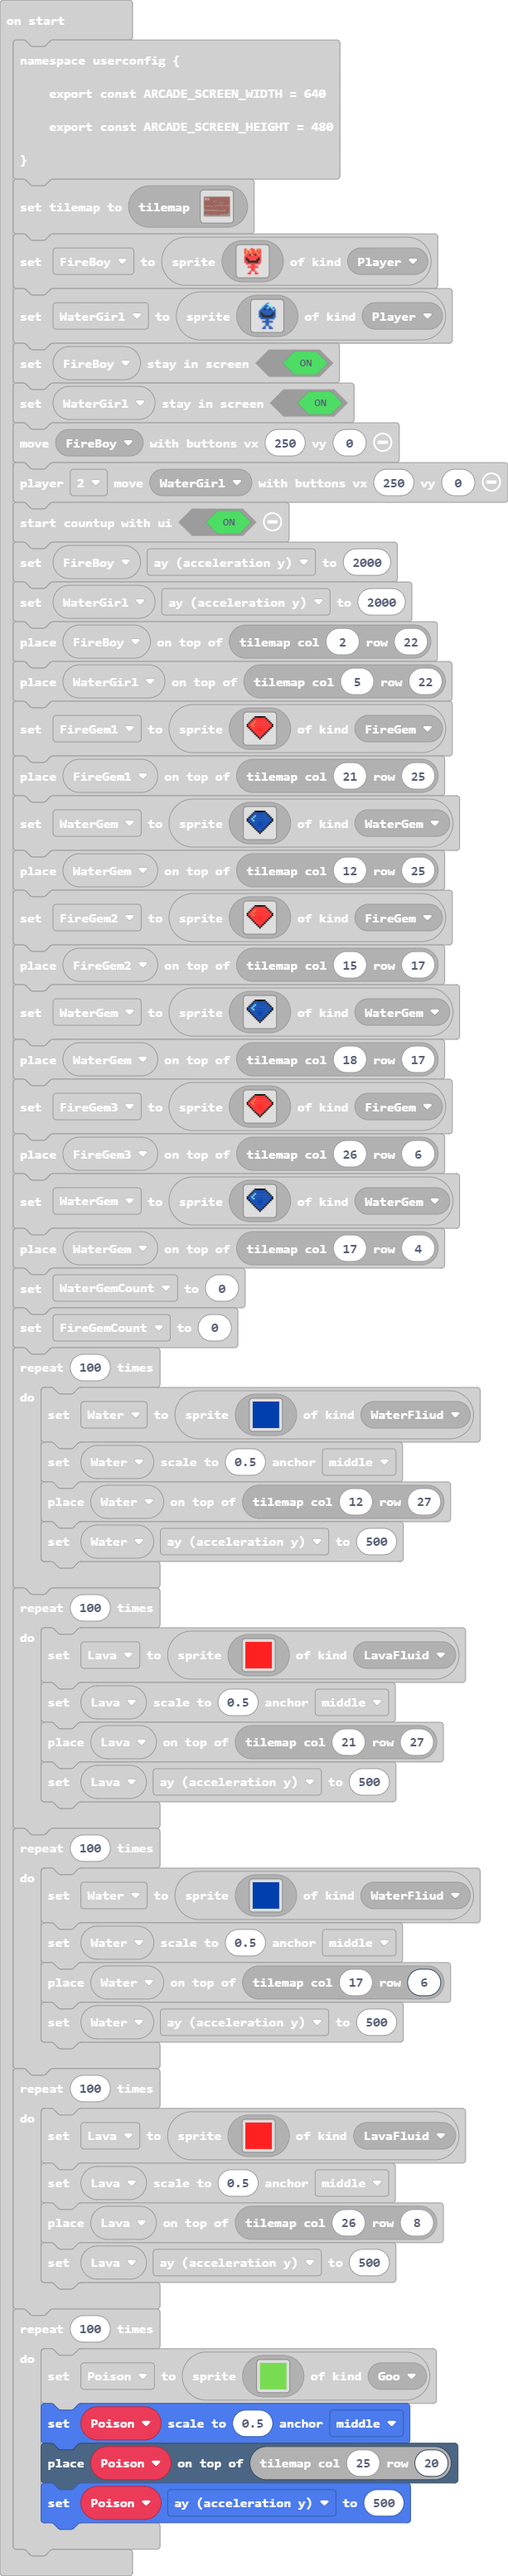
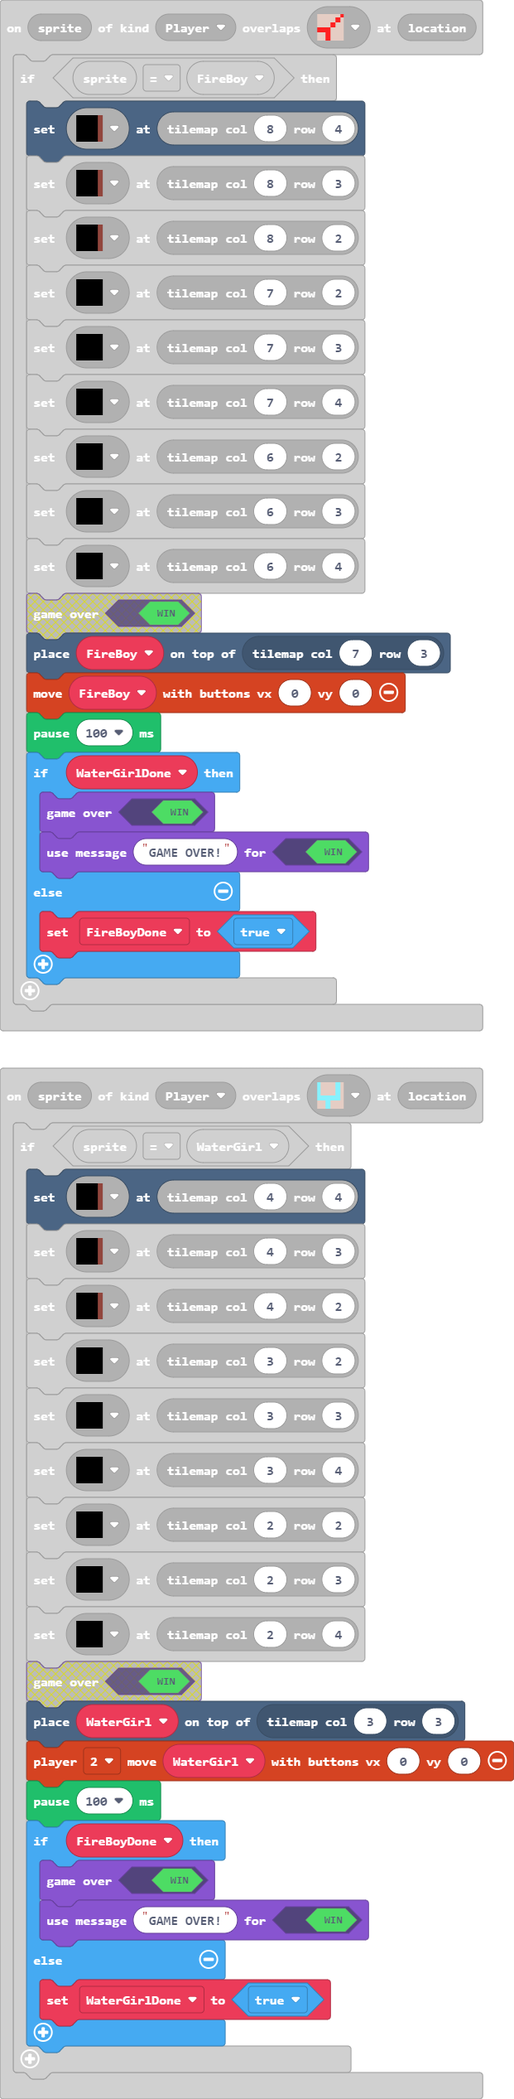
Game Over Door stuff

diff --git a/main.ts b/main.ts
@@ -9,17 +9,21 @@ namespace SpriteKind {
 }
 scene.onOverlapTile(SpriteKind.Player, assets.tile`MiddleMiddleFire`, function (sprite, location) {
     if (sprite == FireBoy) {
+        tiles.setTileAt(tiles.getTileLocation(8, 4), assets.tile`myTile3`)
+        tiles.setTileAt(tiles.getTileLocation(8, 3), assets.tile`myTile3`)
+        tiles.setTileAt(tiles.getTileLocation(8, 2), assets.tile`myTile3`)
+        tiles.setTileAt(tiles.getTileLocation(7, 2), assets.tile`myTile`)
+        tiles.setTileAt(tiles.getTileLocation(7, 3), assets.tile`myTile`)
+        tiles.setTileAt(tiles.getTileLocation(7, 4), assets.tile`myTile`)
+        tiles.setTileAt(tiles.getTileLocation(6, 2), assets.tile`myTile`)
+        tiles.setTileAt(tiles.getTileLocation(6, 3), assets.tile`myTile`)
+        tiles.setTileAt(tiles.getTileLocation(6, 4), assets.tile`myTile`)
+        tiles.placeOnTile(FireBoy, tiles.getTileLocation(7, 3))
+        controller.moveSprite(FireBoy, 0, 0)
+        pause(100)
         if (WaterGirlDone) {
-            tiles.setTileAt(tiles.getTileLocation(8, 4), assets.tile`myTile3`)
-            tiles.setTileAt(tiles.getTileLocation(8, 3), assets.tile`myTile3`)
-            tiles.setTileAt(tiles.getTileLocation(8, 2), assets.tile`myTile3`)
-            tiles.setTileAt(tiles.getTileLocation(7, 2), assets.tile`myTile`)
-            tiles.setTileAt(tiles.getTileLocation(7, 3), assets.tile`myTile`)
-            tiles.setTileAt(tiles.getTileLocation(7, 4), assets.tile`myTile`)
-            tiles.setTileAt(tiles.getTileLocation(6, 2), assets.tile`myTile`)
-            tiles.setTileAt(tiles.getTileLocation(6, 3), assets.tile`myTile`)
-            tiles.setTileAt(tiles.getTileLocation(6, 4), assets.tile`myTile`)
             game.gameOver(true)
+            game.setGameOverMessage(true, "GAME OVER!")
         } else {
             FireBoyDone = true
         }
@@ -30,17 +34,21 @@ controller.up.onEvent(ControllerButtonEvent.Pressed, function () {
 })
 scene.onOverlapTile(SpriteKind.Player, assets.tile`MiddleMiddleWater`, function (sprite, location) {
     if (sprite == WaterGirl) {
+        tiles.setTileAt(tiles.getTileLocation(4, 4), assets.tile`myTile3`)
+        tiles.setTileAt(tiles.getTileLocation(4, 3), assets.tile`myTile3`)
+        tiles.setTileAt(tiles.getTileLocation(4, 2), assets.tile`myTile3`)
+        tiles.setTileAt(tiles.getTileLocation(3, 2), assets.tile`myTile`)
+        tiles.setTileAt(tiles.getTileLocation(3, 3), assets.tile`myTile`)
+        tiles.setTileAt(tiles.getTileLocation(3, 4), assets.tile`myTile`)
+        tiles.setTileAt(tiles.getTileLocation(2, 2), assets.tile`myTile`)
+        tiles.setTileAt(tiles.getTileLocation(2, 3), assets.tile`myTile`)
+        tiles.setTileAt(tiles.getTileLocation(2, 4), assets.tile`myTile`)
+        tiles.placeOnTile(WaterGirl, tiles.getTileLocation(3, 3))
+        controller.player2.moveSprite(WaterGirl, 0, 0)
+        pause(100)
         if (FireBoyDone) {
-            tiles.setTileAt(tiles.getTileLocation(4, 4), assets.tile`myTile3`)
-            tiles.setTileAt(tiles.getTileLocation(4, 3), assets.tile`myTile3`)
-            tiles.setTileAt(tiles.getTileLocation(4, 2), assets.tile`myTile3`)
-            tiles.setTileAt(tiles.getTileLocation(3, 2), assets.tile`myTile`)
-            tiles.setTileAt(tiles.getTileLocation(3, 3), assets.tile`myTile`)
-            tiles.setTileAt(tiles.getTileLocation(3, 4), assets.tile`myTile`)
-            tiles.setTileAt(tiles.getTileLocation(2, 2), assets.tile`myTile`)
-            tiles.setTileAt(tiles.getTileLocation(2, 3), assets.tile`myTile`)
-            tiles.setTileAt(tiles.getTileLocation(2, 4), assets.tile`myTile`)
             game.gameOver(true)
+            game.setGameOverMessage(true, "GAME OVER!")
         } else {
             WaterGirlDone = true
         }
